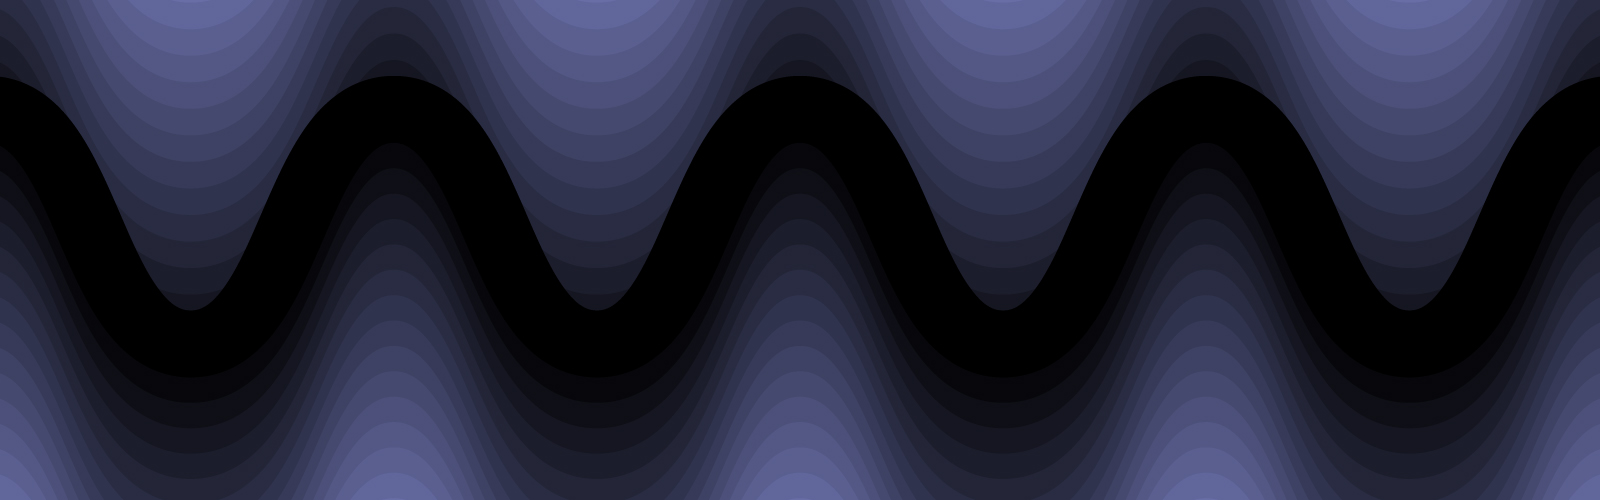
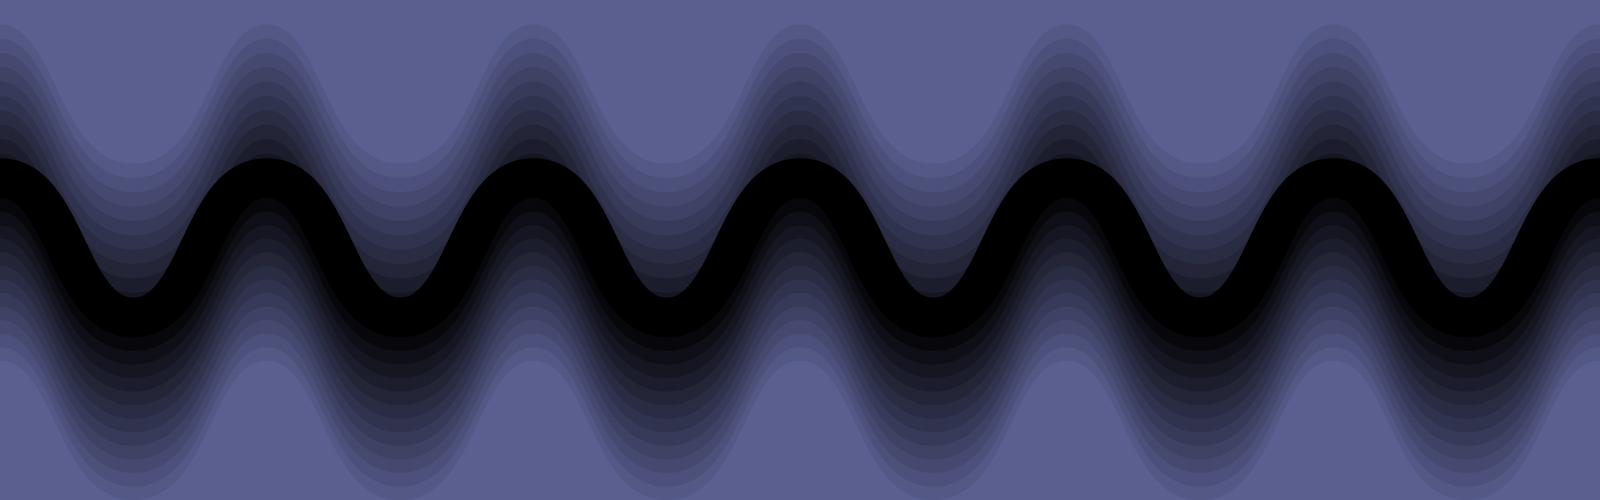
added title

diff --git a/css/main.css b/css/main.css
@@ -1,4 +1,8 @@
 /* Place CSS styles here */
+body{
+    background-color: #5A5F90;
+}
+
 .project-header{
     display: inline-block;
     background-color: rgb(140, 201, 255);
@@ -10,7 +14,7 @@
 }
 
 .navigation{
-    font-family:'Franklin Gothic Medium', 'Arial Narrow', Arial, sans-serif;
+    font-family:Helvetica, 'Franklin Gothic Medium', 'Arial Narrow', Arial, sans-serif;
     font-size: 18px;
     display: flex;
     gap: 30px;
@@ -26,4 +30,14 @@
 .wave-hero-image{
     height: 200px;
     width: auto;
+}
+
+.title{
+    position: absolute;
+    top: 50%;
+    left: 50%;
+    transform: translate(-50%, -50%);
+    font-family: "Badeen Display", Helvetica, Arial, sans-serif;
+    color: rgb(140, 201, 255);
+    font-size: 150px;
 }

diff --git a/index.html b/index.html
@@ -20,6 +20,11 @@
   <link rel="stylesheet" href="css/main.css">
 
   <meta name="theme-color" content="#fafafa">
+
+  <link rel="preconnect" href="https://fonts.googleapis.com">
+  <link rel="preconnect" href="https://fonts.gstatic.com" crossorigin>
+  <link href="https://fonts.googleapis.com/css2?family=Badeen+Display&display=swap" rel="stylesheet">
+
 </head>
 
 <body>
@@ -38,8 +43,15 @@
 <div class="wave-hero-image">
 
   <img src="img/wave.jpg" alt="">
+  <div class="title">The Wave</div>
 
 </div>
+
+<div>
+  
+</div>
+
+
 </body>
 
 </html>
